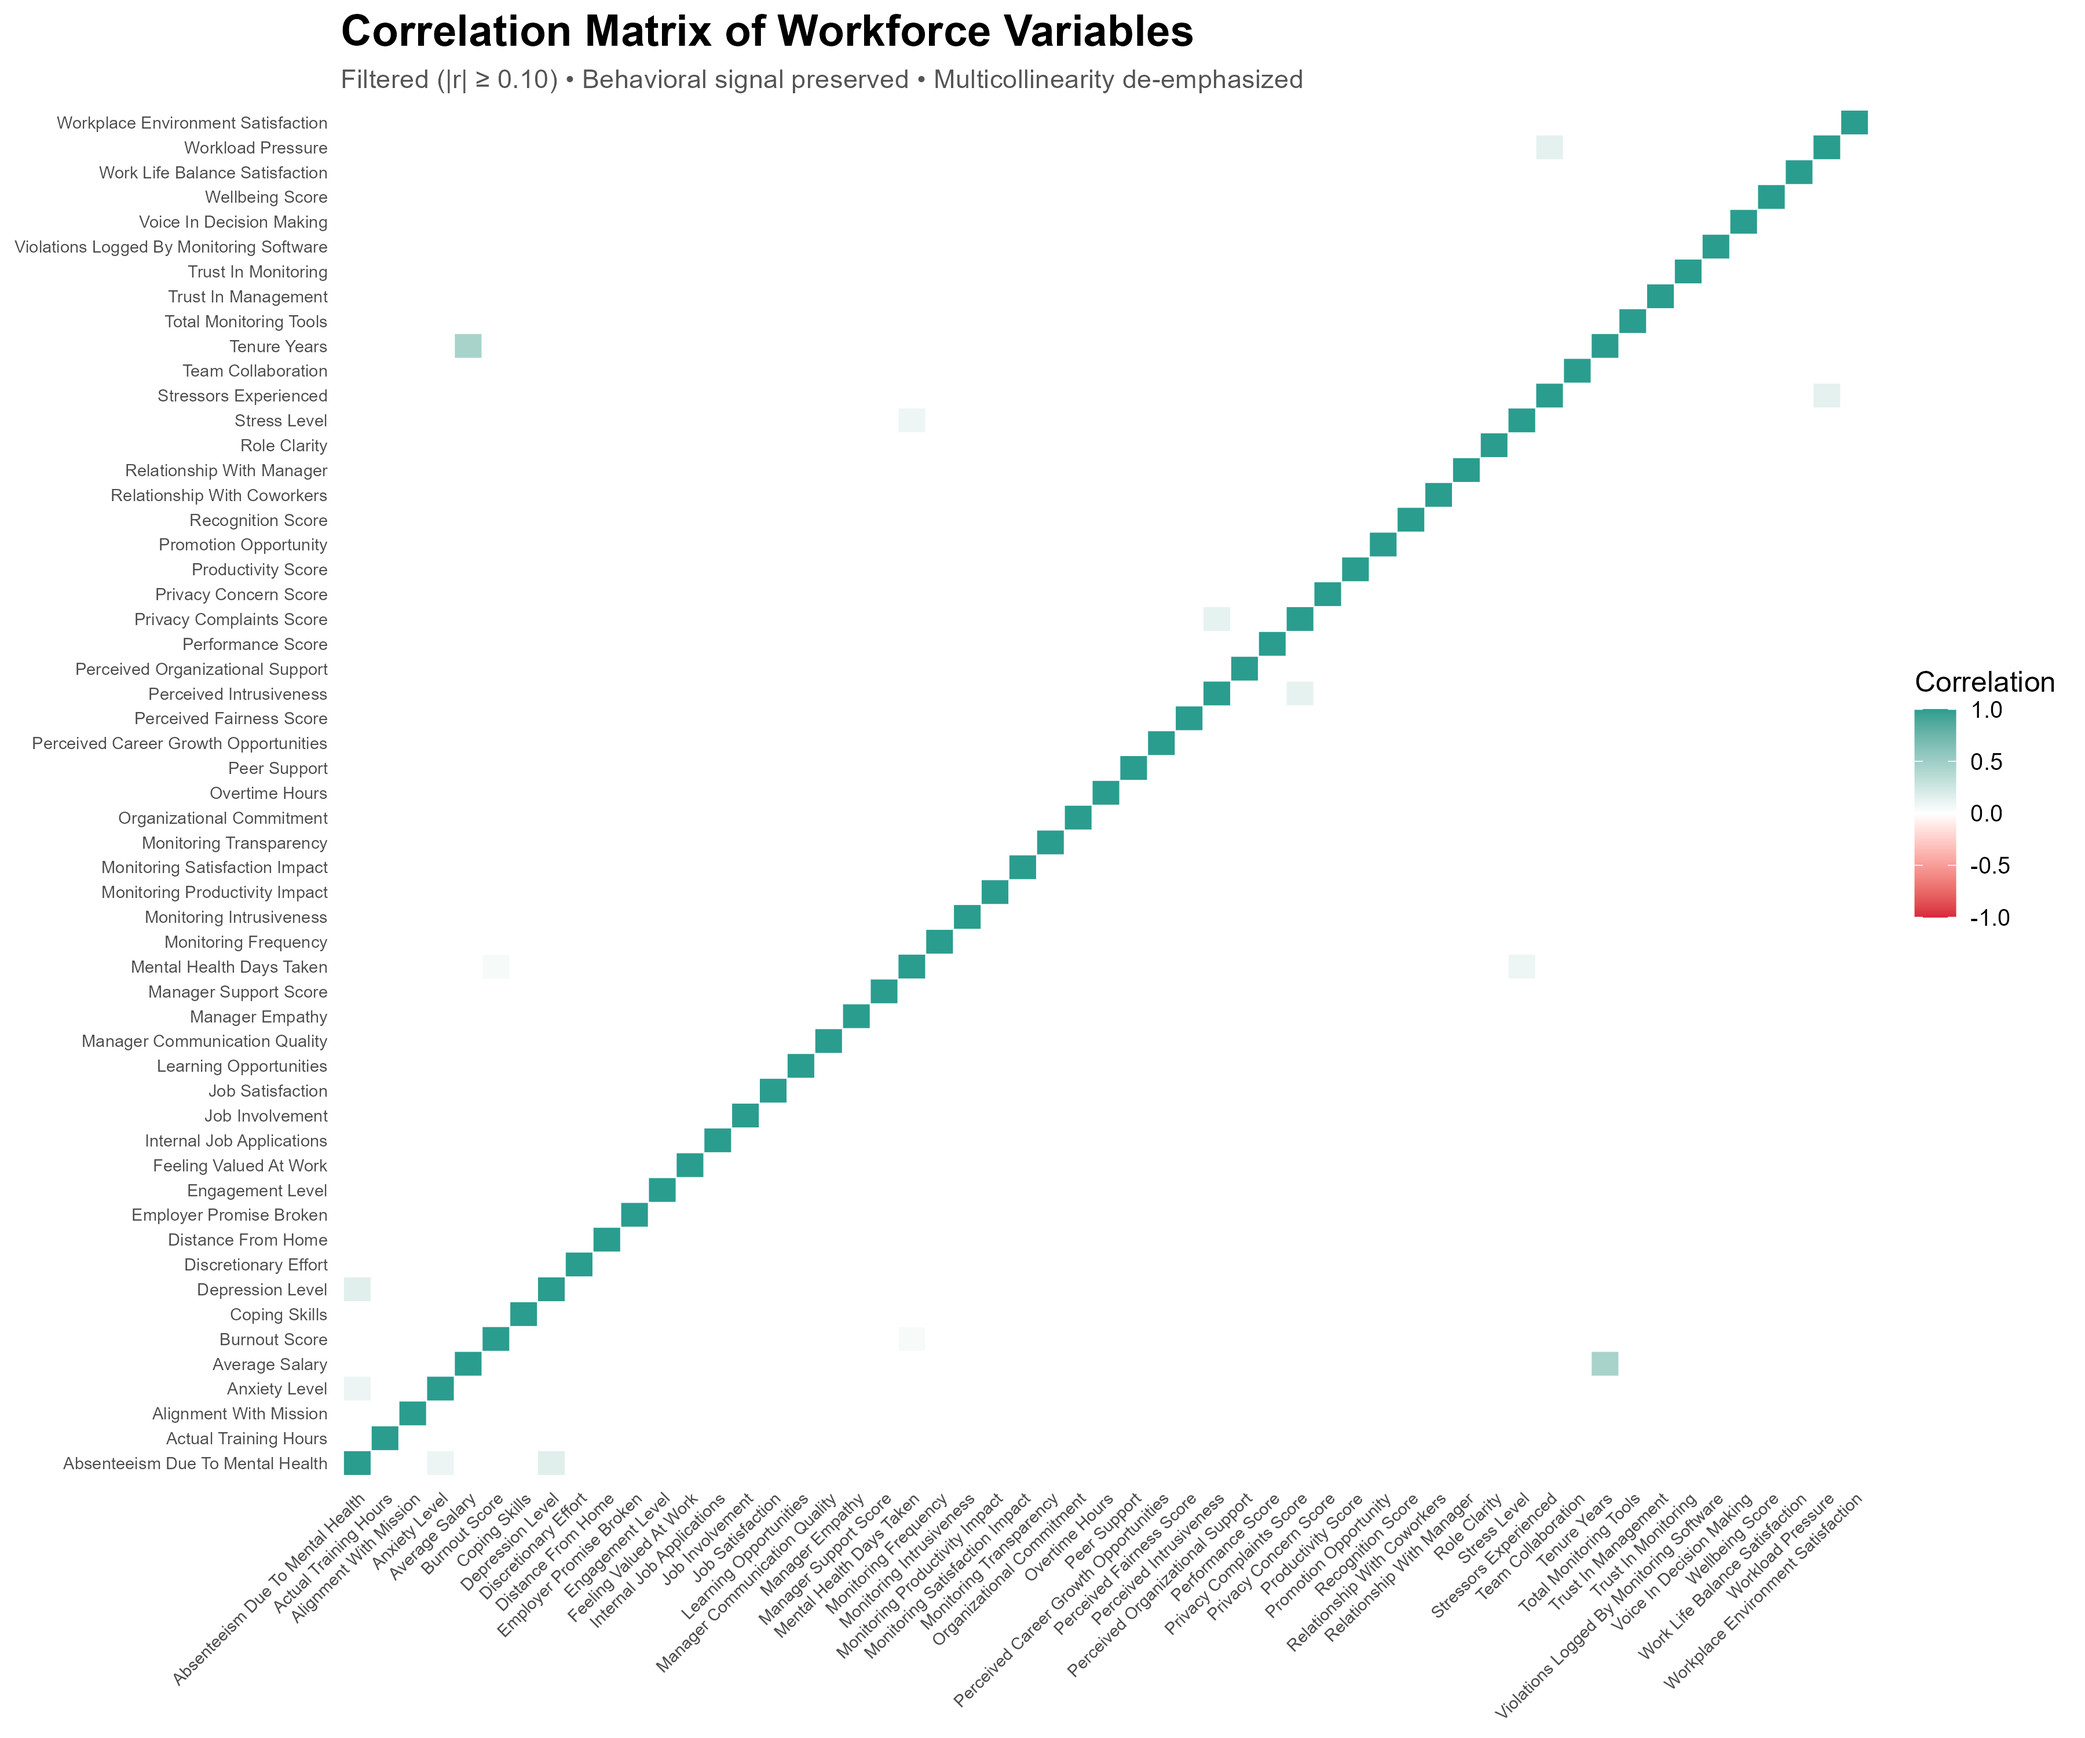
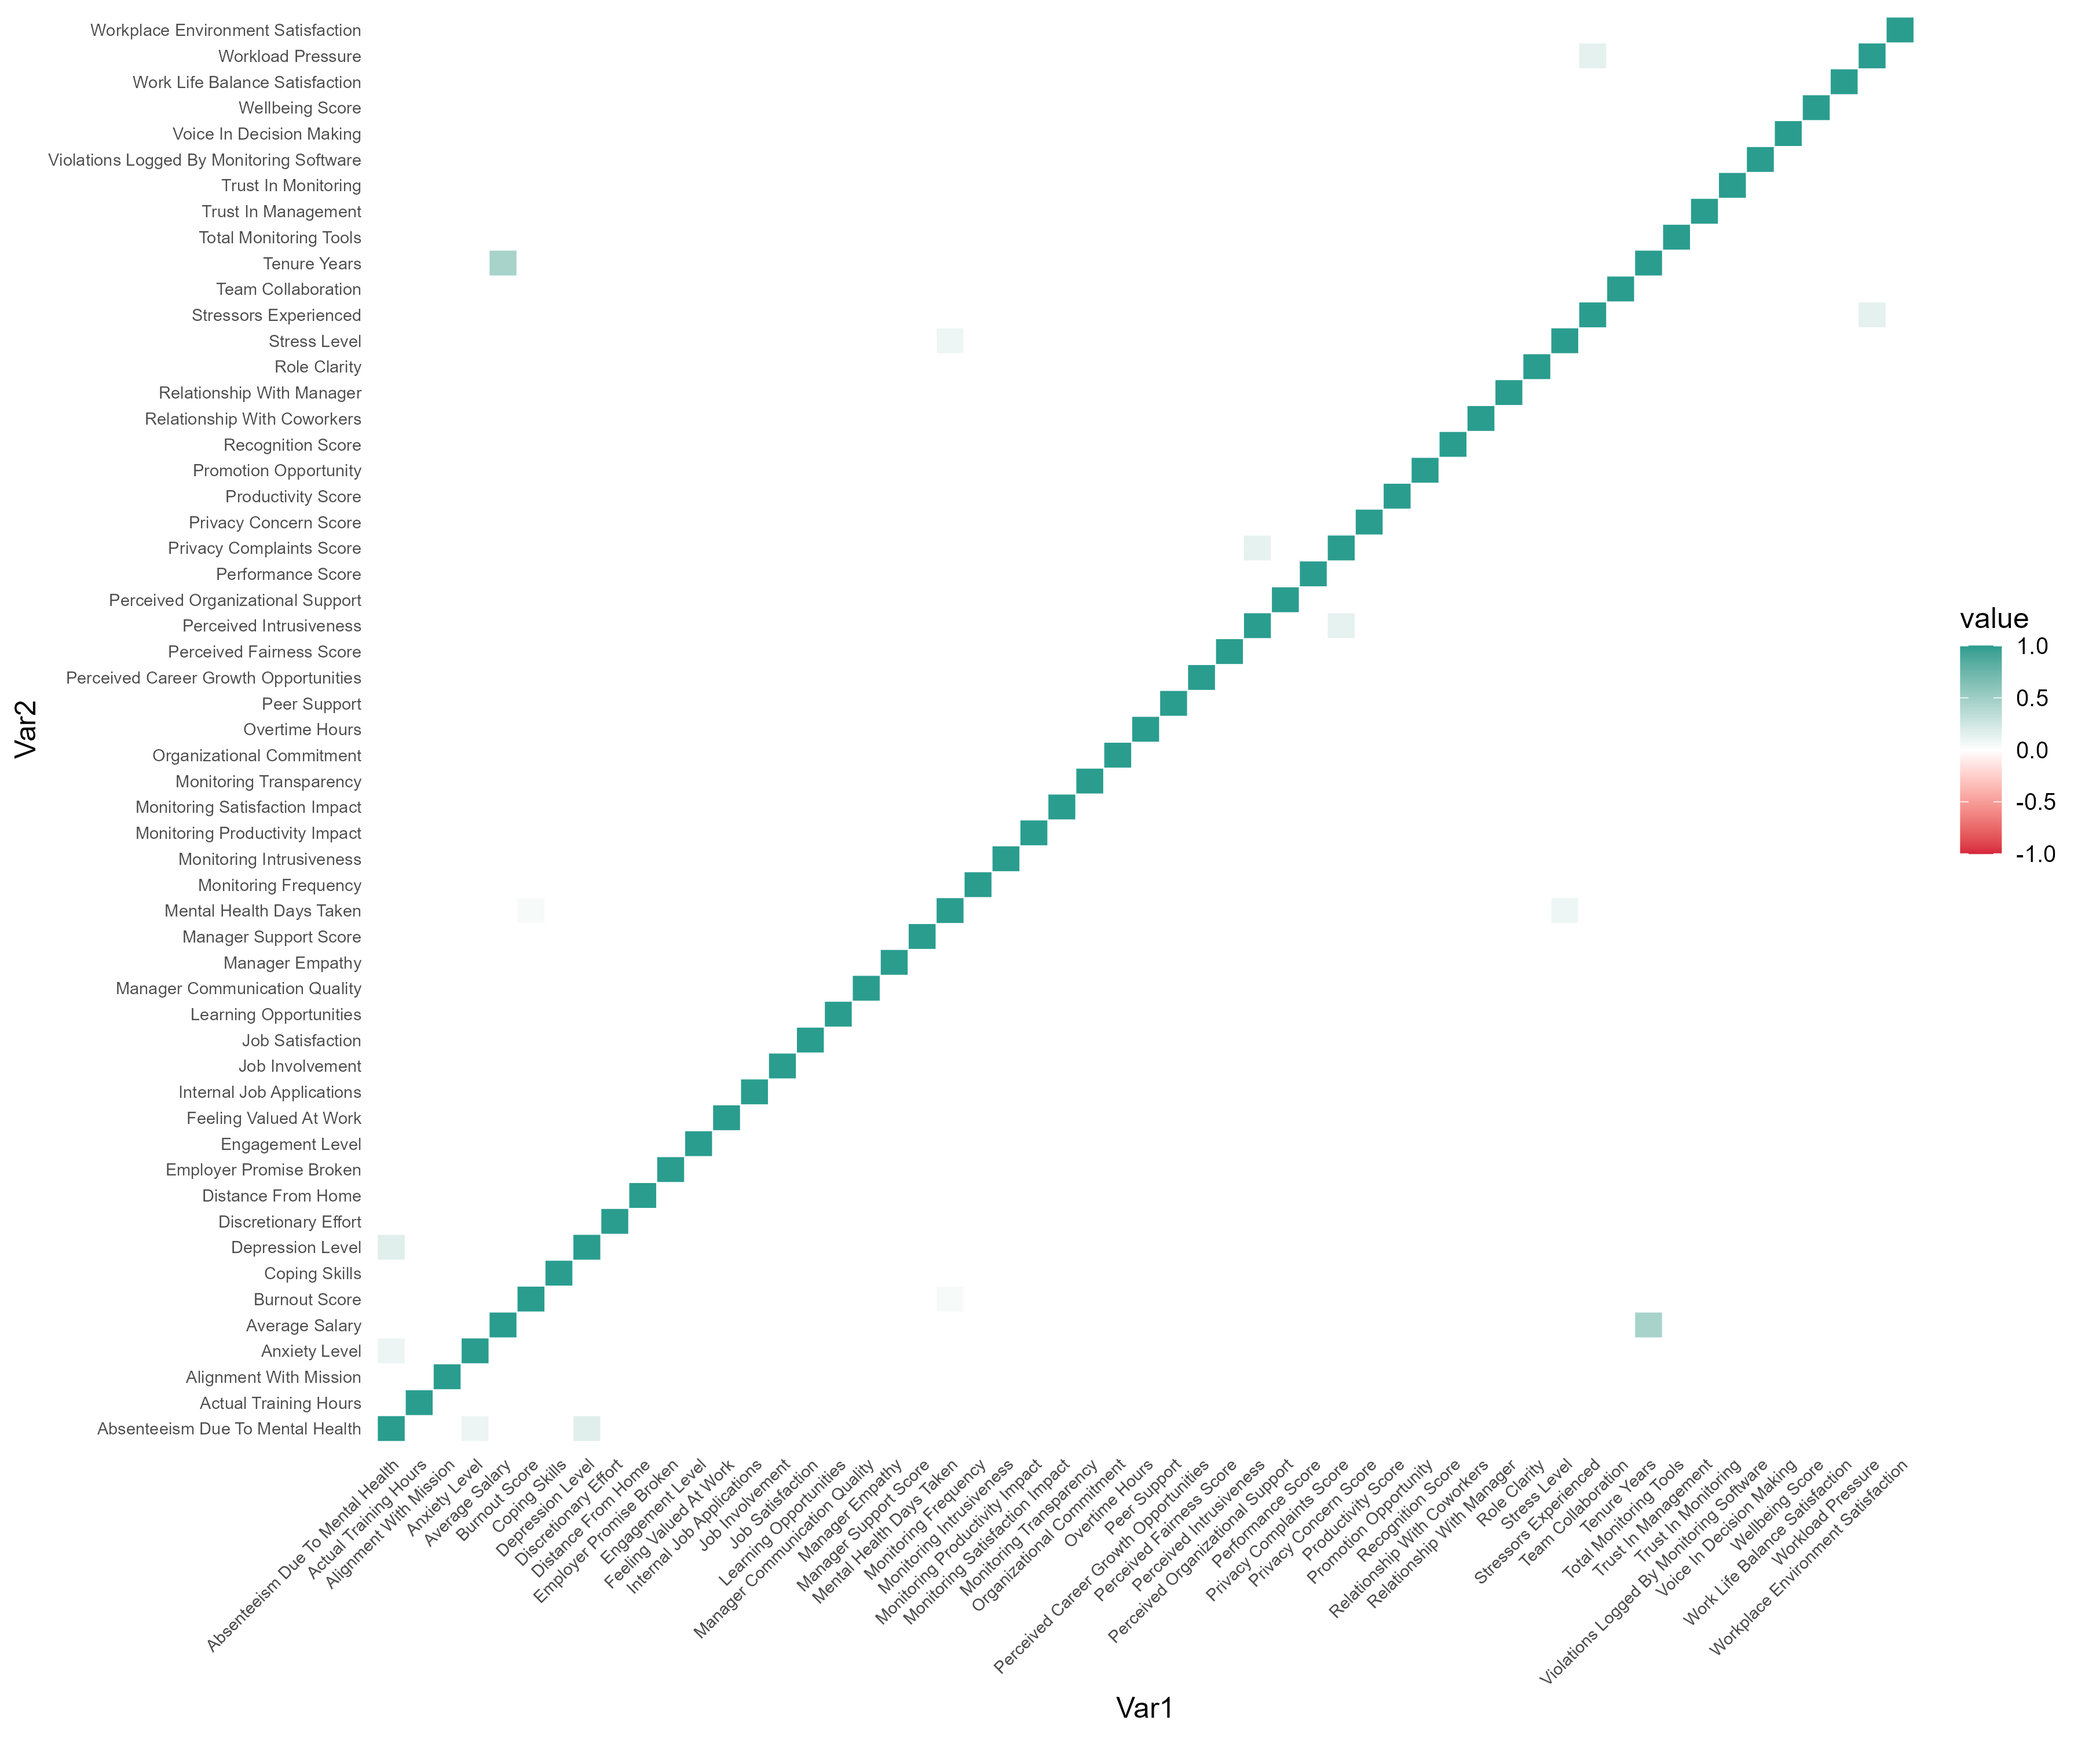
Updated Home & EDA

diff --git a/docs/HR_Data_EDA.html b/docs/HR_Data_EDA.html
@@ -11,7 +11,7 @@
 
 <meta name="author" content="Kevin Allen Cauley" />
 
-<meta name="date" content="2026-04-13" />
+<meta name="date" content="2026-04-15" />
 
 <title>Workforce Analytics Using Synthetic HR Data: Exploratory Data Analysis</title>
 
@@ -261,7 +261,7 @@ div.tocify {
 <h1 class="title toc-ignore">Workforce Analytics Using Synthetic HR
 Data: Exploratory Data Analysis</h1>
 <h4 class="author">Kevin Allen Cauley</h4>
-<h4 class="date">April 13, 2026</h4>
+<h4 class="date">April 15, 2026</h4>
 
 </div>
 
@@ -5211,14 +5211,14 @@ statistical and graphical techniques.</p>
 <h2>Continuous Variable Distributions</h2>
 <p>We use histogram and density plots to inspect the spread and shape of
 continuous variables.</p>
-<p><img src="C:/Users/kacau/HR-Synthetic-Data-Local/analysis/IGNORE/04-continuous-distributions-1.png" width="100%" style="display: block; margin: auto;" /></p>
+<p><img src="C:/Users/kacau/HR-Synthetic-Data-Local/analysis/figures/eda/04-continuous-distributions-1.png" width="100%" style="display: block; margin: auto;" /></p>
 </div>
 <div id="likert-scale-variable-distributions" class="section level2">
 <h2>Likert Scale Variable Distributions</h2>
 <p>Likert-scale variables are plotted as bar charts to show the
 distribution of employee attitudes, perceptions, and satisfaction
 levels.</p>
-<p><img src="C:/Users/kacau/HR-Synthetic-Data-Local/analysis/IGNORE/04-likert-distributions-1.png" width="100%" style="display: block; margin: auto;" /></p>
+<p><img src="C:/Users/kacau/HR-Synthetic-Data-Local/analysis/figures/eda/04-likert-distributions-1.png" width="100%" style="display: block; margin: auto;" /></p>
 <div id="interpretation" class="section level3">
 <h3>Interpretation</h3>
 <p>Several productivity and engagement metrics appear normally
@@ -5242,7 +5242,7 @@ represent realistic workforce variation or potential data anomalies that
 may require transformation or robust modeling techniques.</p>
 <div id="likert-variables-outliers" class="section level3">
 <h3>Likert Variables (Outliers)</h3>
-<p><img src="C:/Users/kacau/HR-Synthetic-Data-Local/analysis/IGNORE/04-outliers-1.png" width="100%" style="display: block; margin: auto;" /></p>
+<p><img src="C:/Users/kacau/HR-Synthetic-Data-Local/analysis/figures/eda/04-outliers-1.png" width="100%" style="display: block; margin: auto;" /></p>
 </div>
 </div>
 </div>
@@ -5274,7 +5274,7 @@ This threshold reduces visual noise while retaining subtle but important
 behavioral signals commonly observed in workforce and organizational
 data. Stronger relationships are emphasized visually, while weaker
 correlations are intentionally de-emphasized.</p>
-<p><img src="C:/Users/kacau/HR-Synthetic-Data-Local/analysis/IGNORE/correlation-matrix-elite-1.png" width="100%" style="display: block; margin: auto;" /></p>
+<p><img src="C:/Users/kacau/HR-Synthetic-Data-Local/analysis/figures/eda/correlation-matrix-elite-1.png" width="100%" style="display: block; margin: auto;" /></p>
 <div id="interpreting-correlation-strength" class="section level3">
 <h3>Interpreting Correlation Strength</h3>
 <p>Correlation coefficients (r) measure the strength and direction of
@@ -5316,7 +5316,7 @@ These localized correlation structures suggest that while the dataset is broadly
 </div>
 <div id="pairwise-relationship-exploration" class="section level2">
 <h2>Pairwise Relationship Exploration</h2>
-<p><img src="C:/Users/kacau/HR-Synthetic-Data-Local/analysis/IGNORE/05-pairwise-correlation-1.png" width="100%" style="display: block; margin: auto;" /></p>
+<p><img src="C:/Users/kacau/HR-Synthetic-Data-Local/analysis/figures/eda/05-pairwise-correlation-1.png" width="100%" style="display: block; margin: auto;" /></p>
 <div id="key-correlation-insights" class="section level3">
 <h3>Key Correlation Insights</h3>
 <p>The correlation threshold exploration allows clearer interpretation
@@ -5385,10 +5385,10 @@ necessary during model development.</p>
 <h2>Target Variable Distributions</h2>
 <p>Below we visualize the target categorical outcomes: Turnover
 Intention, Quiet Quitting, and Monitoring Turnover Risk.</p>
-<p><img src="C:/Users/kacau/HR-Synthetic-Data-Local/analysis/IGNORE/06-target-variable-distributions-1.png" width="100%" style="display: block; margin: auto;" /></p>
+<p><img src="C:/Users/kacau/HR-Synthetic-Data-Local/analysis/figures/eda/06-target-variable-distributions-1.png" width="100%" style="display: block; margin: auto;" /></p>
 <div id="turnover-intention-by-department" class="section level3">
 <h3>Turnover Intention by Department</h3>
-<p><img src="C:/Users/kacau/HR-Synthetic-Data-Local/analysis/IGNORE/06-turnover-by-department-1.png" width="100%" style="display: block; margin: auto;" /></p>
+<p><img src="C:/Users/kacau/HR-Synthetic-Data-Local/analysis/figures/eda/06-turnover-by-department-1.png" width="100%" style="display: block; margin: auto;" /></p>
 </div>
 </div>
 </div>
@@ -5402,7 +5402,7 @@ redundant information</strong>. Variance Inflation Factor (VIF) is used
 to quantify this relationship.</p>
 <div id="vif-for-numeric-predictors" class="section level2">
 <h2>VIF for Numeric Predictors</h2>
-<p><img src="C:/Users/kacau/HR-Synthetic-Data-Local/analysis/IGNORE/vif-numeric-1.png" width="100%" style="display: block; margin: auto;" /></p>
+<p><img src="C:/Users/kacau/HR-Synthetic-Data-Local/analysis/figures/eda/vif-numeric-1.png" width="100%" style="display: block; margin: auto;" /></p>
 <div class="takeaway-box">
 <p><strong>Key Insight</strong></p>
 
@@ -5420,7 +5420,7 @@ A small number of variables show moderate inflation, which may reflect overlappi
 <h2>VIF for Categorical Predictors</h2>
 <p>To assess multicollinearity among categorical predictors, we convert
 factor variables into dummy variables using one-hot encoding.</p>
-<p><img src="C:/Users/kacau/HR-Synthetic-Data-Local/analysis/IGNORE/vif-categorical-1.png" width="100%" style="display: block; margin: auto;" /></p>
+<p><img src="C:/Users/kacau/HR-Synthetic-Data-Local/analysis/figures/eda/vif-categorical-1.png" width="100%" style="display: block; margin: auto;" /></p>
 <div class="takeaway-box">
 <p><strong>Key Insight</strong></p>
 
@@ -5477,7 +5477,7 @@ hr_df &lt;- hr_df %&gt;%
 <p>After collapsing the age categories into broader career stages, the
 multicollinearity diagnostics are recalculated for the categorical
 predictors to confirm that the issue has been resolved.</p>
-<p><img src="C:/Users/kacau/HR-Synthetic-Data-Local/analysis/IGNORE/vif-categorical-updated-1.png" width="100%" style="display: block; margin: auto;" /></p>
+<p><img src="C:/Users/kacau/HR-Synthetic-Data-Local/analysis/figures/eda/vif-categorical-updated-1.png" width="100%" style="display: block; margin: auto;" /></p>
 </div>
 </div>
 <div id="distribution-risk-imbalance-analysis" class="section level1">
@@ -5490,7 +5490,7 @@ behavioral patterns—such as extreme overtime, absenteeism, or mental
 health indicators occurring in a smaller subset of employees.</p>
 <div id="numeric-variable-skewness" class="section level2">
 <h2>Numeric Variable Skewness</h2>
-<p><img src="C:/Users/kacau/HR-Synthetic-Data-Local/analysis/IGNORE/skewness-plot-1.png" width="100%" style="display: block; margin: auto;" /></p>
+<p><img src="C:/Users/kacau/HR-Synthetic-Data-Local/analysis/figures/eda/skewness-plot-1.png" width="100%" style="display: block; margin: auto;" /></p>
 <div class="takeaway-box">
 <p><strong>Key Insight</strong></p>
 
@@ -5518,7 +5518,7 @@ performance.</p>
 within each categorical variable.</p>
 <div id="dominant-category-proportion" class="section level3">
 <h3>Dominant Category Proportion</h3>
-<p><img src="C:/Users/kacau/HR-Synthetic-Data-Local/analysis/IGNORE/categorical-distributions-1.png" width="100%" style="display: block; margin: auto;" /></p>
+<p><img src="C:/Users/kacau/HR-Synthetic-Data-Local/analysis/figures/eda/categorical-distributions-1.png" width="100%" style="display: block; margin: auto;" /></p>
 <div class="takeaway-box">
 <p><strong>Key Insight</strong></p>
 

diff --git a/docs/index.html b/docs/index.html
@@ -12,7 +12,7 @@
 
 <meta name="author" content="Kevin Allen Cauley" />
 
-<meta name="date" content="2026-04-09" />
+<meta name="date" content="2026-04-15" />
 
 <title>Workforce Analytics Using Synthetic HR Data</title>
 
@@ -60,7 +60,7 @@ if (window.hljs) {
 <h1 class="title toc-ignore">Workforce Analytics Using Synthetic HR
 Data</h1>
 <h4 class="author">Kevin Allen Cauley</h4>
-<h4 class="date">April 09, 2026</h4>
+<h4 class="date">April 15, 2026</h4>
 
 
 
